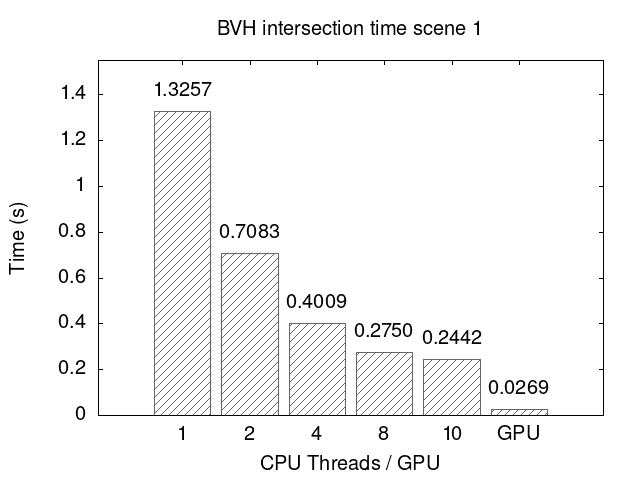
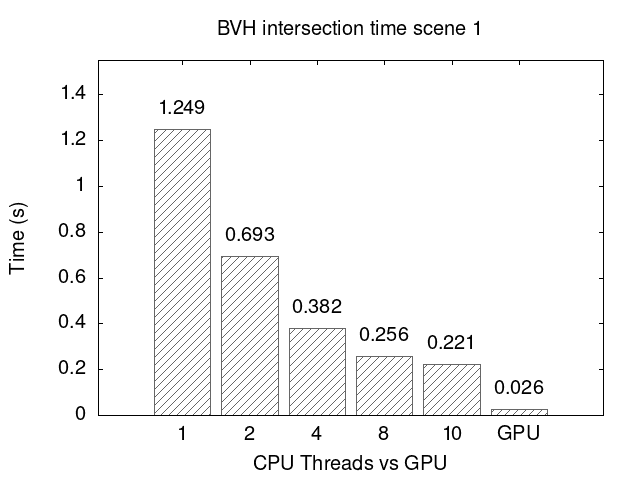
Use align 16 and update graphs

diff --git a/dataTypes.hpp b/dataTypes.hpp
@@ -69,7 +69,7 @@ struct VertexAttributes {
 };
 
 // Bounding volume hierarchy node
-struct ALIGN(8) BVHNode {
+struct ALIGN(16) BVHNode {
   AABB aabb;
   // Index of first primitive or left child
   uint leftFirst;
